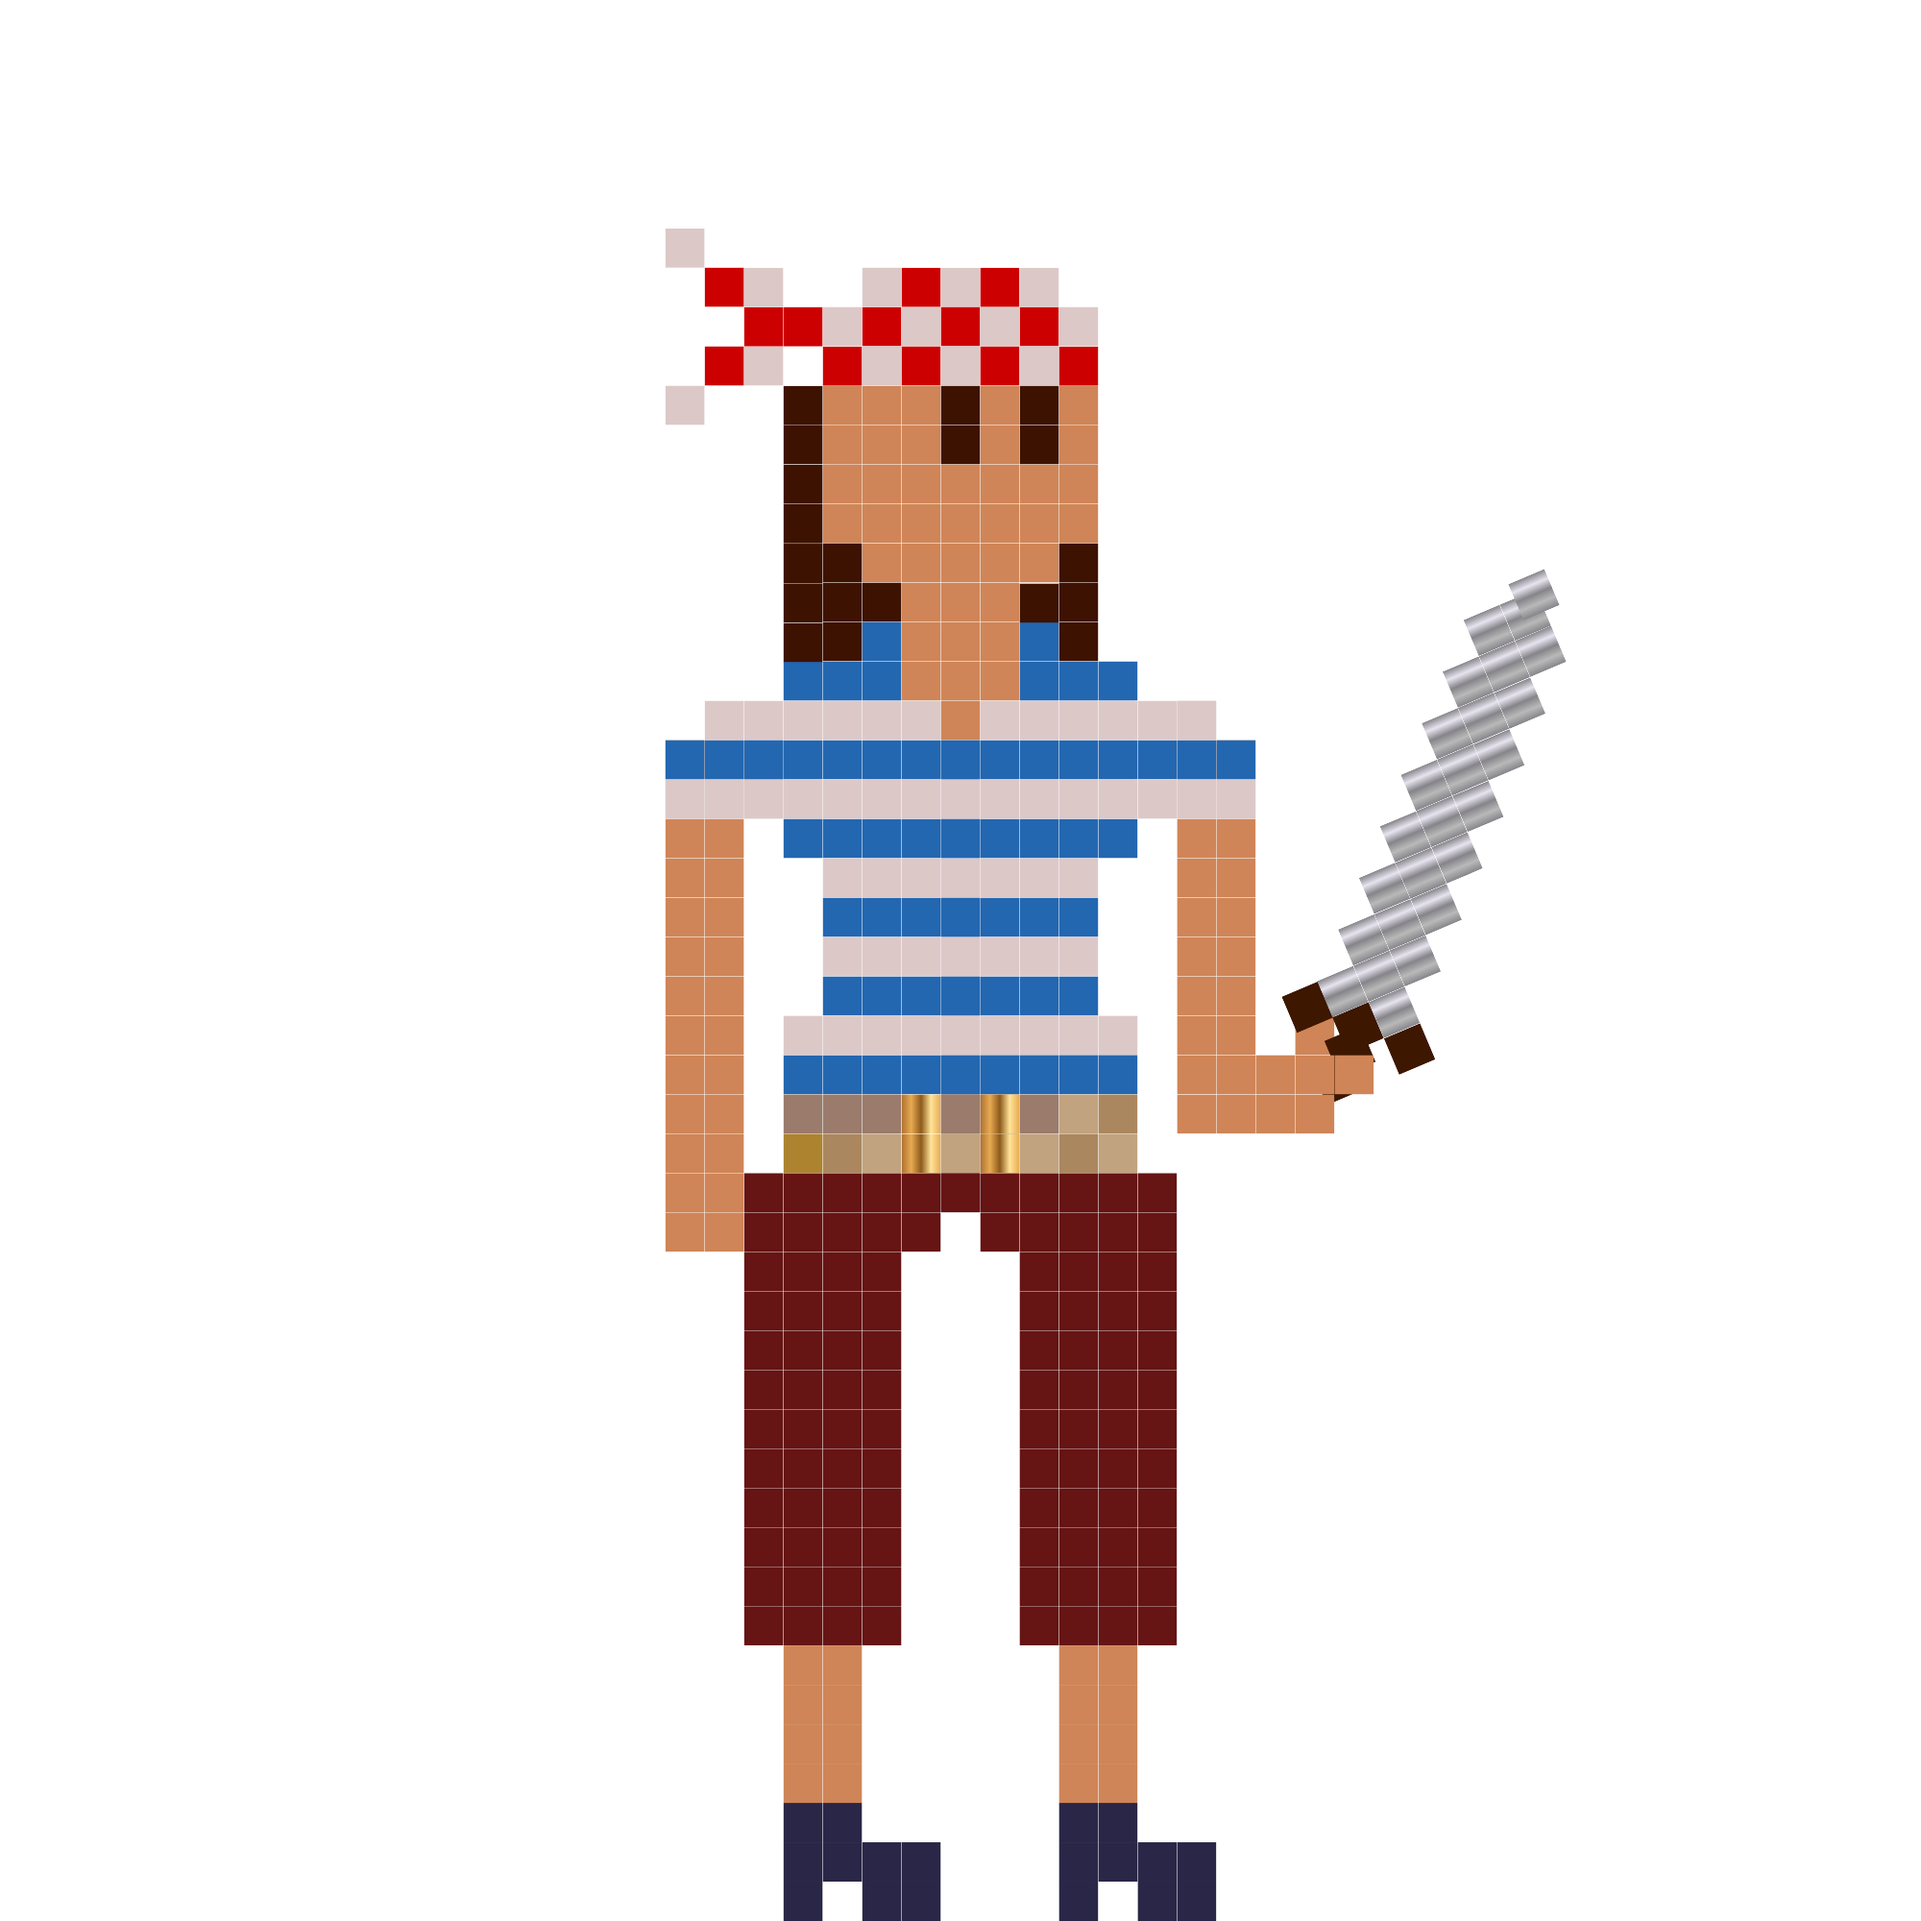
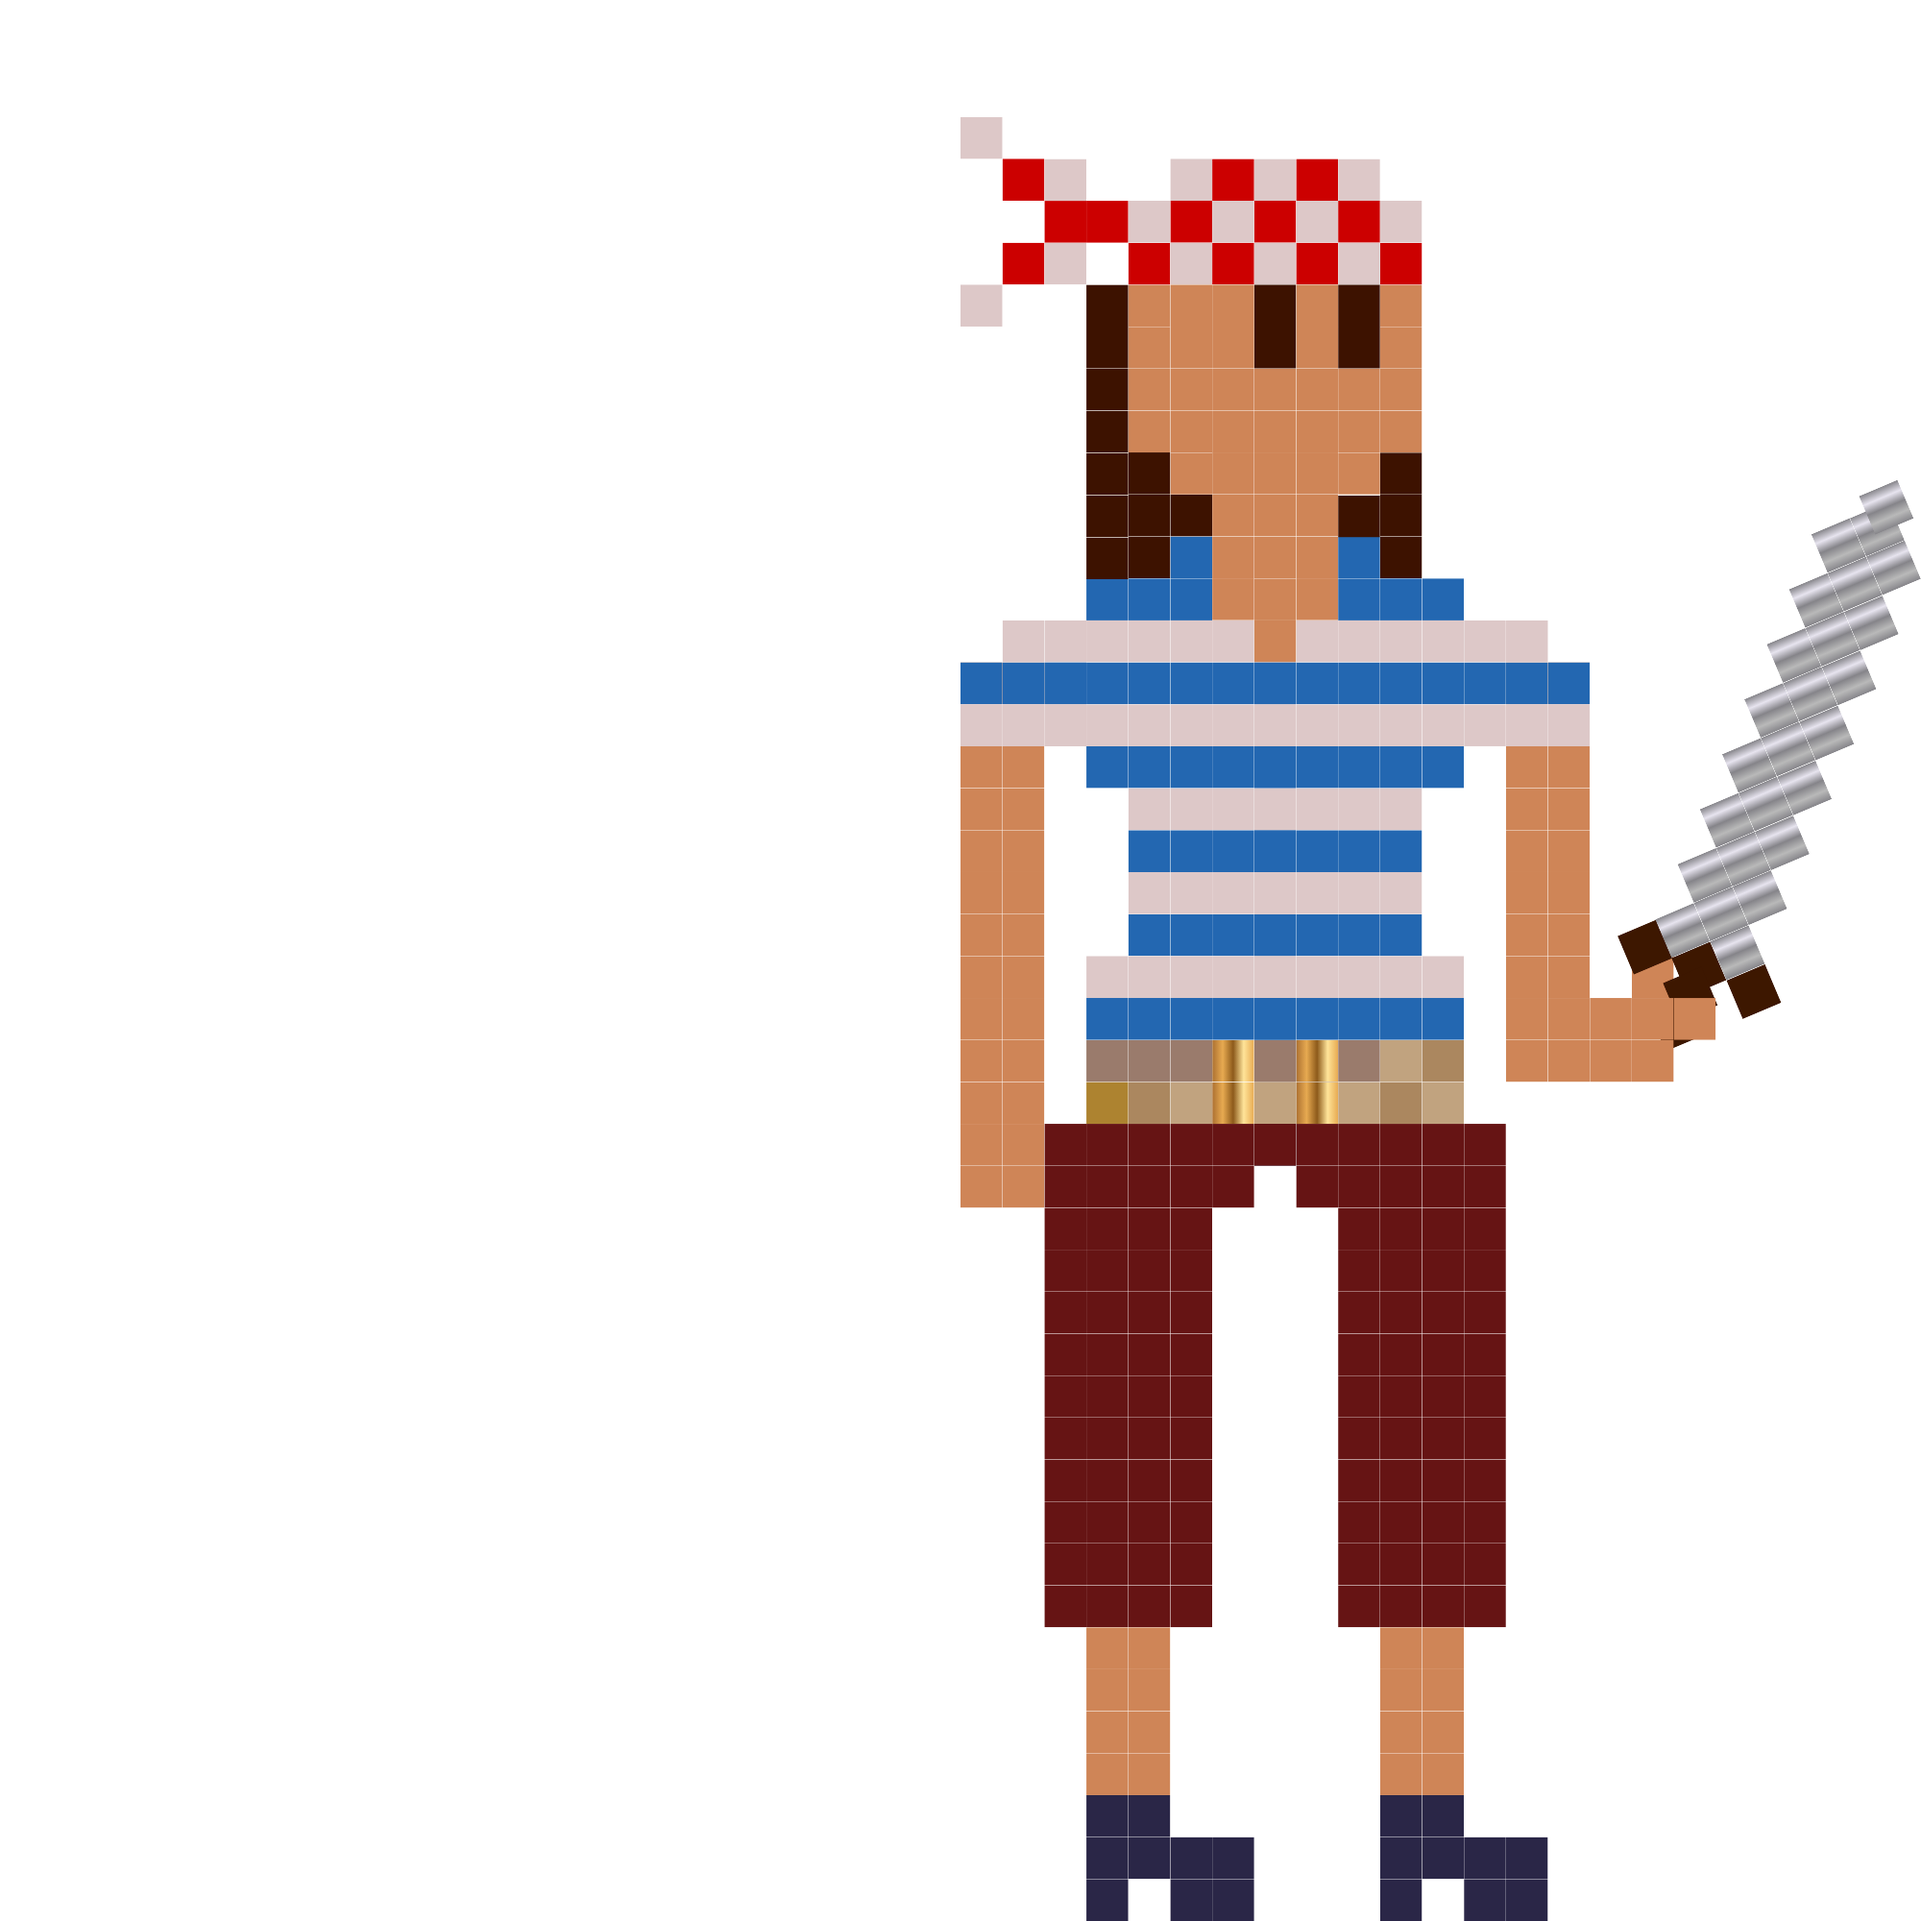
made the pirate closer too

Changed region(s): [[0.341, 0.062, 1.0, 1.0]]

diff --git a/page2/scipt.js b/page2/scipt.js
@@ -50,7 +50,7 @@ function move(){
     let o=ob.getBoundingClientRect();
     console.log("pirate:",p.left,p.right,p.top,p.bottom,"obstacle:",o.left,o.right,o.top,o.bottom);
     p.right-=3;    
-    o.left+=10;
+    o.left+=5;
 
     if(p.right>o.left && p.left<o.right&& p.bottom>o.top&& p.top<o.bottom && !dead){
         console.log("hit",p.right,o.left);//moree temporaryyyy
